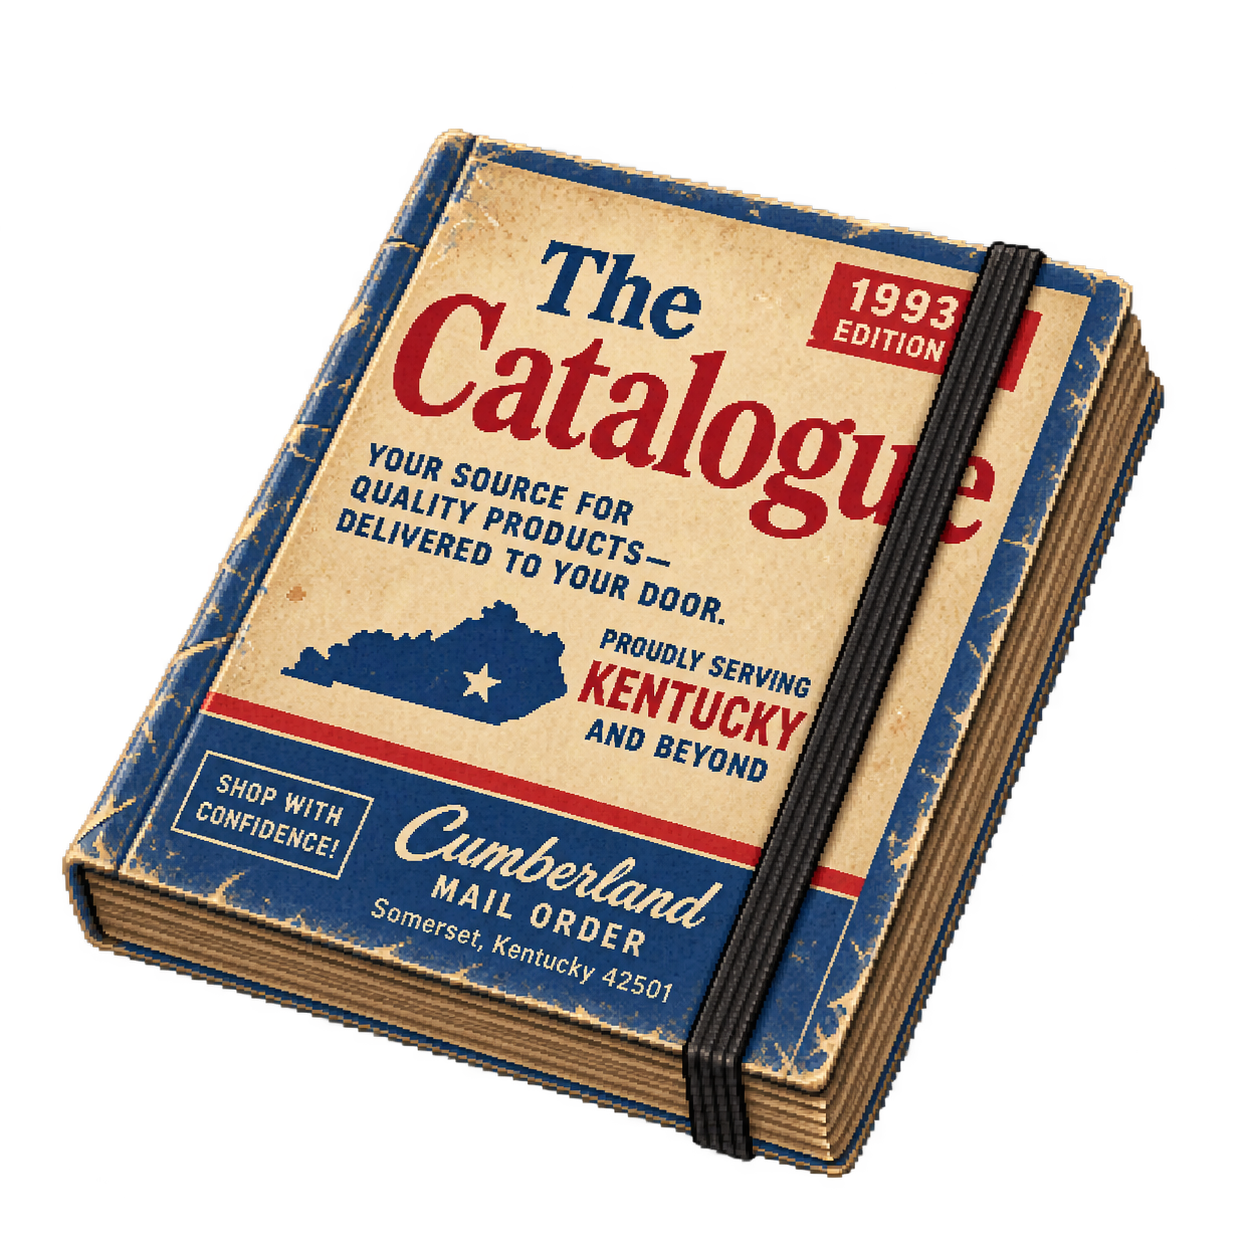
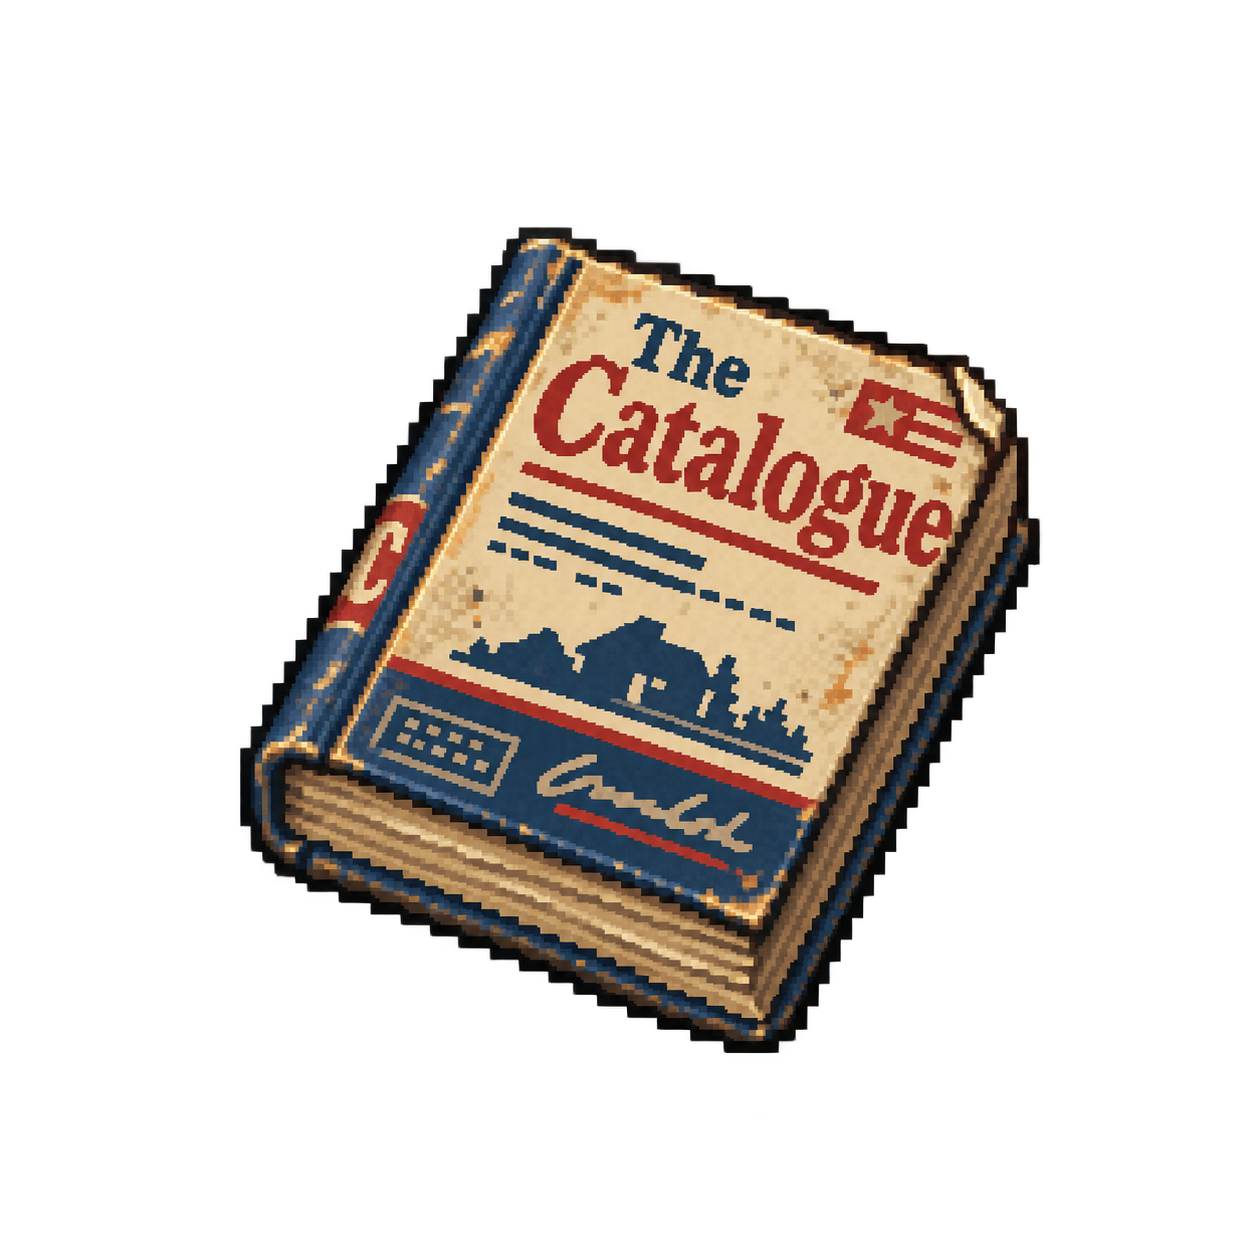
Reprint the cover
Vitor's new catalogue icon: the blue-spined book with the printed cover.

It changes twelve places and only one file moved. The inventory item reads
the texture directly, and every context-menu entry this mod adds goes
through TC.catalogueIcon, which reads it off the item script -- Open
Catalogue, Collect delivery, the three sell entries, Use ATM, the tamper
submenu and its two entries, Examine the card, Read the note, Run it
through the reader, Online Catalogue, Internet Banking and the three
installs.

Swapped at the source in art/ and rebuilt with tools/gen_art.ps1 rather
than dropping a 32x32 into media/textures. The script trims the
transparent margin, squares the result so the icon slot does not stretch
the book, and steps 1254 -> 256 -> 96 -> 32 instead of reducing in one
jump, which throws away most of the detail it should be averaging.

The book on the GROUND still wears the old cover. That texture is built
from art/catalogue_faces.png, a flat sheet of panels, because it re-skins
vanilla's WorldItems/Catalogue mesh and the layout is fixed by that mesh's
UVs. A perspective render cannot be unwrapped back into flat panels. The
world texture came out byte-identical, which confirms the script is
deterministic and that nothing else moved.

diff --git a/CHANGELOG.md b/CHANGELOG.md
@@ -12,6 +12,36 @@ Dates are the day the work was done, not a release date — nothing here has shi
 
 ---
 
+## 0.10.1-beta — 2026-08-30
+
+### Changed
+- **New catalogue icon**, drawn by Vitor: the blue-spined book with the printed cover.
+
+  It changes **twelve places at once** and only one file had to move. The item in the
+  inventory reads it directly, and every context-menu entry this mod adds — *Open
+  Catalogue*, *Collect delivery*, the three sell entries, *Use ATM*, the machine submenu
+  and its two entries, *Examine the card*, *Read the note*, *Run it through the reader*,
+  *Online Catalogue*, *Internet Banking* and the three installs — goes through
+  `TC.catalogueIcon`, which reads the texture off the item script. One PNG, eleven menus.
+
+  Swapped at the **source**, in `art/catalogue_icon.png`, and rebuilt with
+  `tools/gen_art.ps1` rather than by dropping a 32×32 into `media/textures`. The script
+  trims the transparent margin, squares the result so the book is not stretched by the
+  icon slot, and steps 1254 → 256 → 96 → 32 rather than reducing in one jump — a 39×
+  bicubic reduction throws away most of the detail it should be averaging.
+
+### Note
+**The book on the ground still wears the old cover.** The world texture is built from a
+different source — `art/catalogue_faces.png`, a flat sheet of panels, because it re-skins
+vanilla's `WorldItems/Catalogue` mesh and its layout is fixed by that mesh's UVs. The new
+render is the book in perspective, which is right for an icon and cannot be unwrapped back
+into flat panels. The two covers are close in style rather than identical; send a new faces
+sheet and `gen_art.ps1` rebuilds that half too.
+
+`42/icon.png` is untouched — that is the mod's banner logo, not the item.
+
+---
+
 ## 0.10.0-beta — 2026-08-29
 
 ### Added
